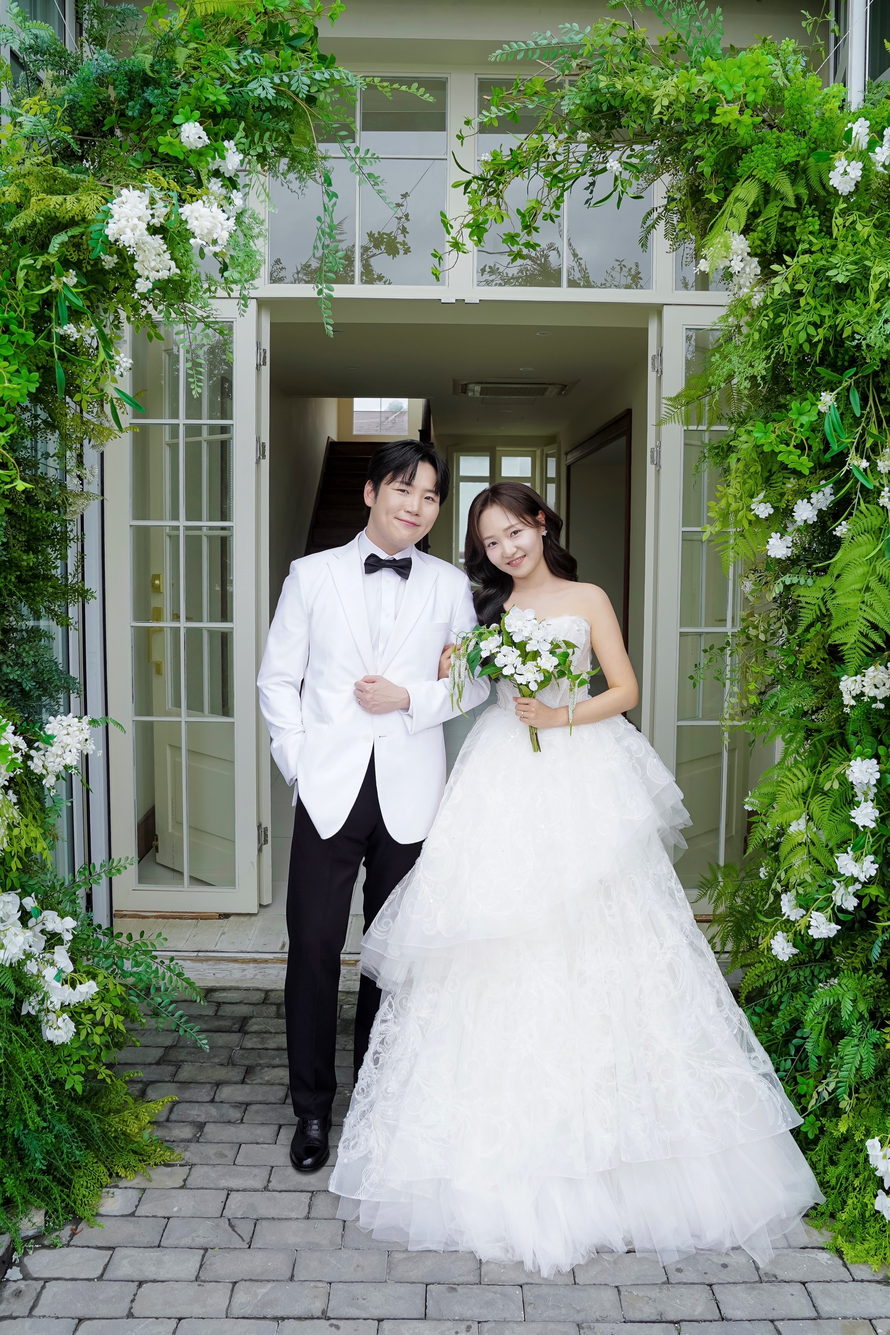
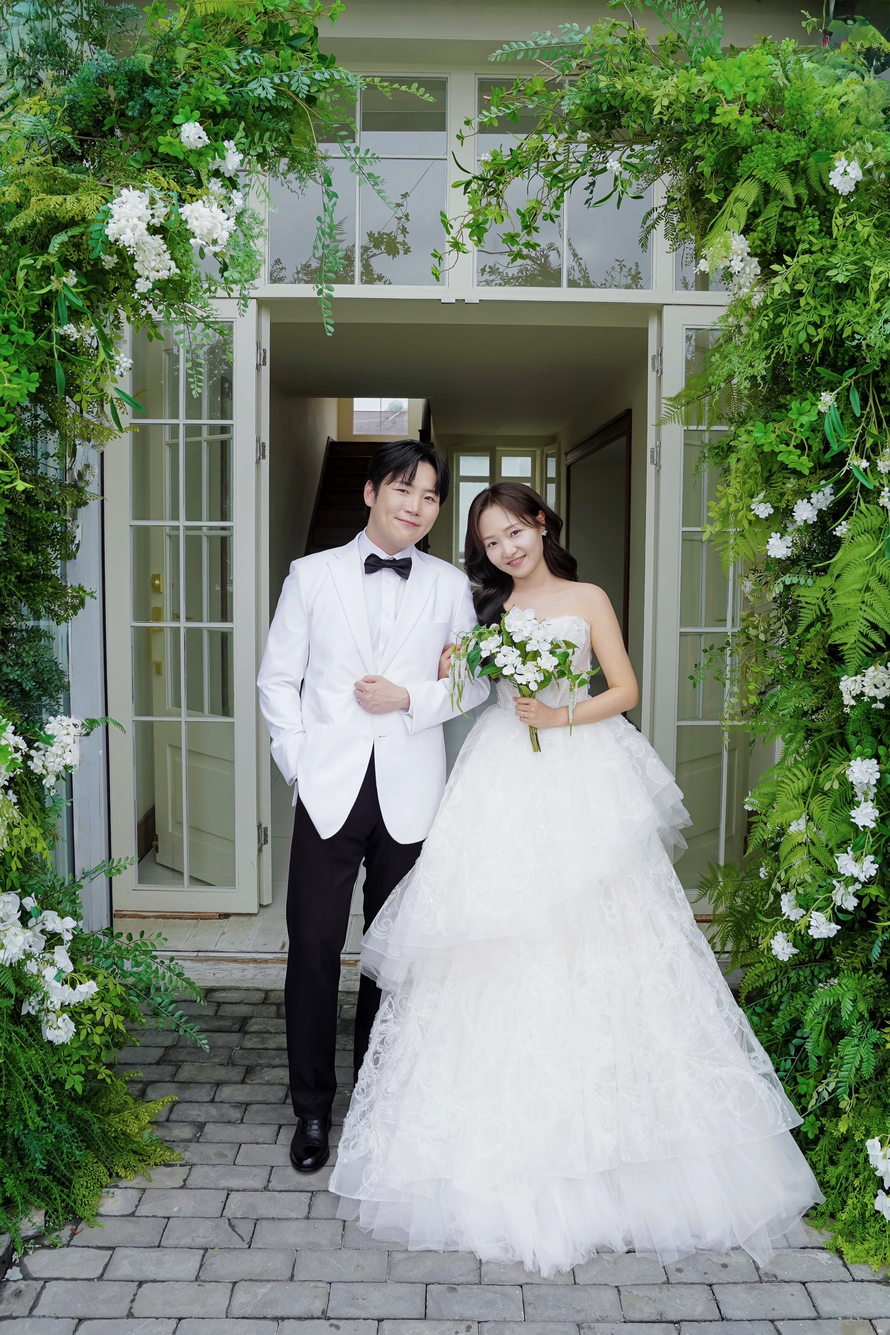
change kakaotalk thumb nail

diff --git a/index.html b/index.html
@@ -36,7 +36,7 @@
     <!-- ⚠ 이미지 파일이 실제 존재하는지 확인 후 사용 -->
     <meta
       property="og:image"
-      content="https://belkrane.github.io/H1004DAY/src/img/header.PNG?v=20260606"
+      content="https://belkrane.github.io/H1004DAY/src/img/header2.PNG?v=20260606"
     />
     <!--
       실제 이미지 크기(px)를 아래에 맞게 수정하세요.
